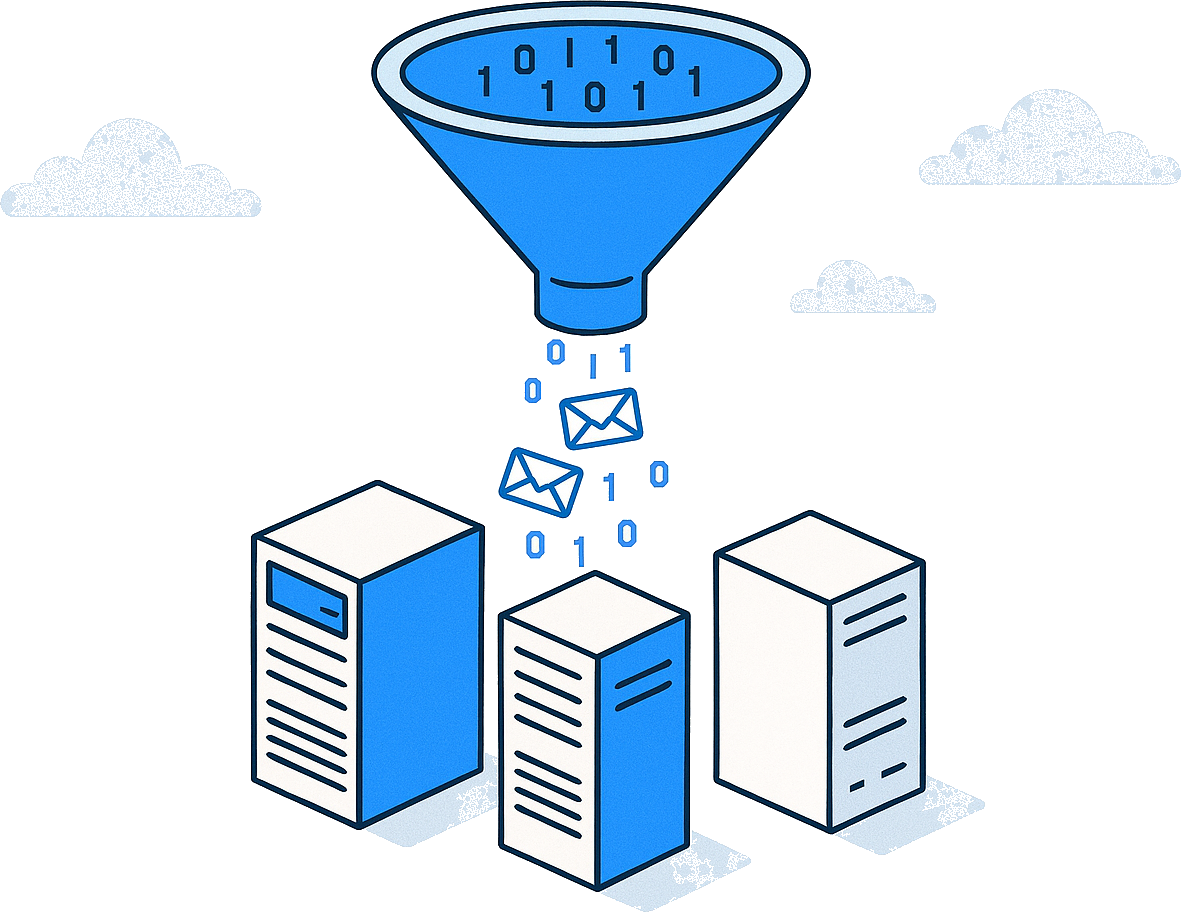
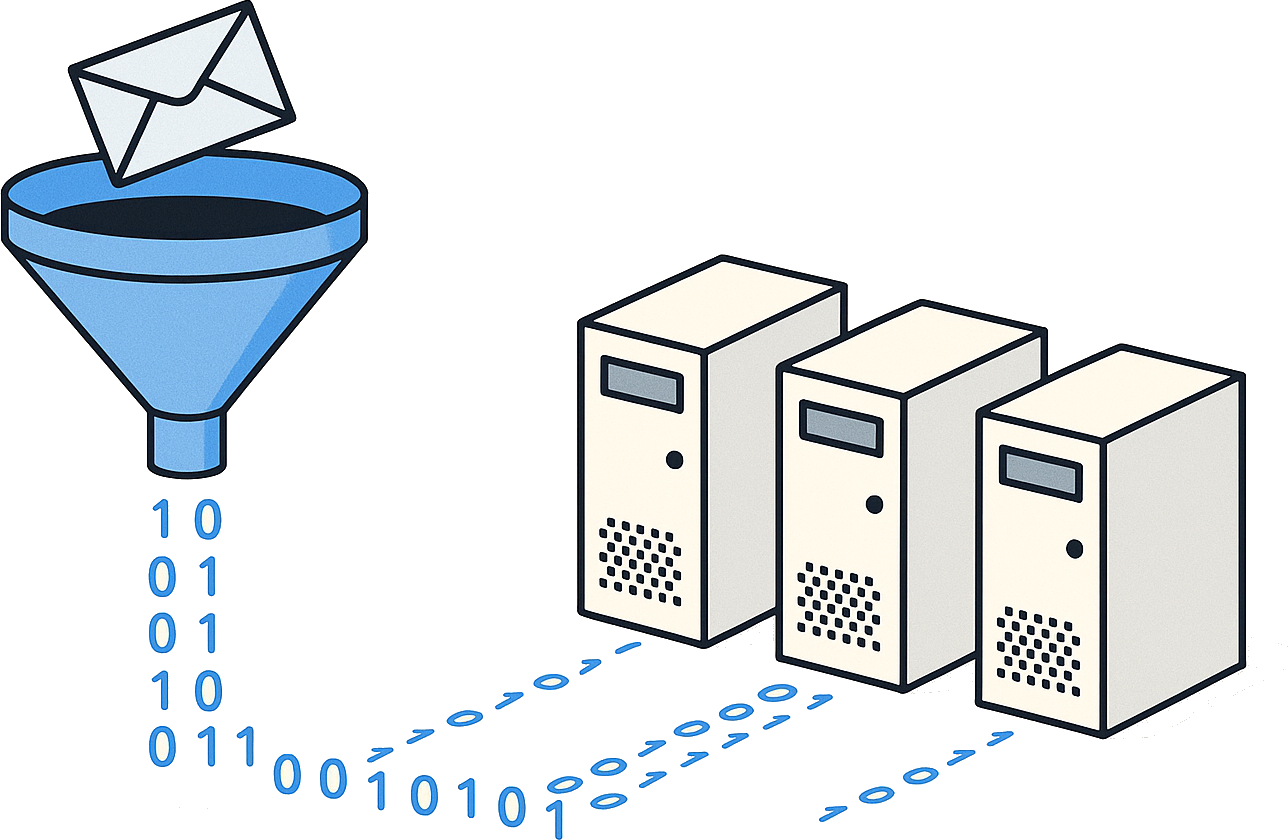
Iris names the trigger, and the corner is hers again
Every run_case now opens on the trigger — "a customer sends an email saying the
app crashes when they log in" — because that is the node the learner wired up.
Starting from the symptom described a situation with no visible connection to
the flow on their canvas.

run_pass said "All four of them!", a count with nothing attached, and the clip
outlived the celebration a learner can click straight past. It says what passed,
first: "All four test cases passed". The rule generalises — anything skippable
carries its meaning in the opening clause — so both went into the skill.

build_start named the next screen's job ("start connecting them") at the moment
the canvas opens. It now names what the learner has: you've got all your nodes,
now let's build your setup.

React Flow's zoom buttons moved to the bottom right, which is what let Iris go
back to the left corner she travels from — she had been pushed to x=96 to avoid
being drawn on top of.

Stress Testing reads as a title rather than an eyebrow, and the covers are 2:1
with simpler compositions: a node setup is a wide, shallow, left-to-right thing,
and a squarer slot was shrinking the art to fit.

10 clips re-rendered and synced to the bucket; all four covers redrawn.

diff --git a/packages/problems/email-triage/index.js b/packages/problems/email-triage/index.js
@@ -15,7 +15,7 @@ export const emailTriage = {
   estimatedMinutes: 25,
   coverImage: {
     prompt:
-      'A single retro pixel-art desktop computer stands on the ground with an envelope glowing on its screen. Above it float three separate cube-shaped sorting bins, and a stream of falling binary connects the computer up to them, one envelope shape riding the stream.',
+      'A single retro pixel-art computer on the left, and three simple cube trays on the right, with one envelope travelling between them on a short stream of binary. Wide, sparse, left to right.',
     src: '/covers/email-triage.png',
     alt: 'A retro computer streaming an email up into three sorting bins',
   },
@@ -774,7 +774,10 @@ export const emailTriage = {
 
     // The canvas has just opened and it is empty. This is the only line that gets to
     // frame the whole build, so it gives the ordering principle and nothing else.
-    build_start: ["[calm] Now that you've collected your nodes, let's start connecting them. Follow the order the email travels."],
+    // Spoken as the canvas opens, straight after the toolkit reveal. Names what the
+    // learner now HAS before naming what to do with it — the previous line went
+    // straight to "start connecting them", which is the next screen's job.
+    build_start: ["[calm] Right, you've got all your nodes. Now let's build your setup, in the order the email travels."],
 
     // ---- opening a build phase ----------------------------------------------
     // The phase title and its description are both on screen. These give the
@@ -858,11 +861,18 @@ export const emailTriage = {
     // Each describes the EMAIL and stops there. Where it comes out is the thing
     // worth watching, and on the last one it is also the Stress Testing question, so
     // announcing the destination would answer a question not yet asked.
-    'run_case:bug': ["[calm] Okay, here's the first. Their app crashes every time they log in. Watch what your classifier does."],
-    'run_case:feature': ["[calm] Right, next up. Nothing's broken this time, they just want something that doesn't exist yet."],
-    'run_case:urgent': ["[calm] Ah, this third one is angry. They've been charged twice and nobody's helping."],
-    'run_case:question': ["[calm] And the last one is just a question. No bug, no request, no complaint. But keep an eye on it."],
-    run_pass: ["[excited] All four of them! [pause] Every email went exactly where it should. That flow works."],
+    // Every run_case OPENS ON THE TRIGGER. "A customer sends an email saying the
+    // app crashes" ties the case to the node the learner actually wired up;
+    // starting from the symptom ("their app crashes") describes a situation with no
+    // visible connection to the trigger sitting on the canvas.
+    'run_case:bug': ["[calm] Okay, here's the first. A customer sends an email saying the app crashes when they log in."],
+    'run_case:feature': ["[calm] Right, next up. A customer emails asking for something that doesn't exist yet."],
+    'run_case:urgent': ["[calm] Ah, this third one. A customer emails, angry, charged twice and nobody's helping."],
+    'run_case:question': ["[calm] And the last one. A customer emails just to ask a question. Keep an eye on this one."],
+    // "All four of them!" opened on a number with nothing for it to count, and the
+    // clip ran on past the celebration it belongs to. Says what passed, in one
+    // breath, so nothing is left hanging when the screen moves on.
+    run_pass: ["[excited] All four test cases passed! [pause] Every email went exactly where it should."],
     run_fail: [
       "[calm] Hmm. Some didn't land where they should. That's useful to know, so let's follow one.",
       "[calm] Not all of them landed right. Follow one that missed and see where it turned.",

diff --git a/apps/web/src/lib/voiceLines.js b/apps/web/src/lib/voiceLines.js
@@ -164,7 +164,7 @@ export const LINES = {
   // ---- building -----------------------------------------------------------
   // The canvas and the phase label are both visible, so no line reads them out.
   build_start: [
-    "[calm] Now that you've collected your nodes, let's start connecting them up.",
+    "[calm] Right, you've got all your nodes. Now let's build your setup.",
   ],
   // Spoken when a build phase opens. `BuildStage` had been playing this since the
   // mascot mapping existed, but there were no words for it, so Iris animated and
@@ -275,8 +275,11 @@ export const LINES = {
   // is seeing where something lands, and narrating the destination in advance throws
   // that away. It would also hand over the Stress Testing answer on the case that
   // deliberately matches no rule.
-  run_case: ["[calm] Okay, here's the next one. Watch where it goes."],
-  run_pass: ["[excited] Every case came out right. That flow works.", "[excited] All of them passed. That's well built."],
+  // The generic version cannot know what arrived, so it points at the trigger
+  // without describing the case. An authored per-case line should name the trigger
+  // explicitly — "a customer sends an email saying…" — see the skill.
+  run_case: ["[calm] Okay, here's the next one arriving. Watch where it goes."],
+  run_pass: ["[excited] Every test case passed! That flow works.", "[excited] All your test cases passed. That's well built."],
   run_fail: ["[calm] Some didn't come out right. That's worth knowing. Let's look."],
 
   // ---- finishing ----------------------------------------------------------

diff --git a/apps/web/src/screens/HomeScreen.jsx b/apps/web/src/screens/HomeScreen.jsx
@@ -60,7 +60,9 @@ function Cover({ problem, Icon }) {
     // sliced by the border. Padding plus contain keeps the whole scene visible and
     // gives it room to breathe. The slot's background matches the art's own
     // off-white, so the inset reads as part of the picture rather than as a frame.
-    <div style={{ aspectRatio: '16 / 9', background: art?.src ? COVER_BG : 'var(--surface-soft-blue)', display: 'flex', alignItems: 'center', justifyContent: 'center', overflow: 'hidden', borderBottom: '1px solid var(--border-subtle)', padding: art?.src ? 18 : 0, boxSizing: 'border-box' }}>
+    // 2:1 rather than 16:9. A node setup is a wide, shallow left-to-right thing, so
+    // the art is too — a squarer slot forced the illustration to shrink to fit.
+    <div style={{ aspectRatio: '2 / 1', background: art?.src ? COVER_BG : 'var(--surface-soft-blue)', display: 'flex', alignItems: 'center', justifyContent: 'center', overflow: 'hidden', borderBottom: '1px solid var(--border-subtle)', padding: art?.src ? 16 : 0, boxSizing: 'border-box' }}>
       {art?.src ? (
         <img src={art.src} alt={art.alt || ''} style={{ maxWidth: '100%', maxHeight: '100%', objectFit: 'contain', display: 'block' }} />
       ) : (

diff --git a/apps/web/src/screens/EvalScreen.jsx b/apps/web/src/screens/EvalScreen.jsx
@@ -162,7 +162,10 @@ export function EvalScreen({ problem, sessionId, onDecision, onSubmit }) {
             on a laptop. Secondary colour, not brand blue: this is a label, and blue is
             the colour of things you click. */}
         <div style={{ width: '100%', maxWidth: COLUMN_WIDTH, textAlign: 'center', marginBottom: 22, paddingBottom: 18, borderBottom: '1px solid var(--border-subtle)' }}>
-          <div style={{ fontSize: 11, textTransform: 'uppercase', letterSpacing: '0.08em', color: 'var(--fg-2)', fontWeight: 700 }}>
+          {/* A medium title, not an eyebrow: it names the section a learner has just
+              arrived at, so it should read at title weight. Secondary colour keeps it
+              from competing with the question, which is the thing to actually read. */}
+          <div style={{ fontFamily: 'var(--font-headline)', fontSize: 20, fontWeight: 600, color: 'var(--fg-2)' }}>
             Stress Testing
           </div>
         </div>

diff --git a/apps/web/src/screens/BuildStage.jsx b/apps/web/src/screens/BuildStage.jsx
@@ -201,9 +201,9 @@ export function BuildStage({ problem, onDecision, onComplete, devAutoRun, sessio
   const parkCorner = useCallback(() => {
     const b = box();
     setMascotClip('idle'); setMascotVisible(true);
-    // x=96, not 24: React Flow's zoom controls own the bottom-left corner, and at
-    // 24 Iris sat directly under the + / − buttons — which draw on top of her.
-    moveTo(96, b.height - 96, 68);
+    // Hard into the left corner. She was pushed to x=96 to clear React Flow's zoom
+    // buttons; those now live bottom-right (see N8nEditor), so the corner is hers.
+    moveTo(20, b.height - 96, 68);
   }, [moveTo]);
   const rectOf = (nodeId) => {
     const c = canvasRef.current;

diff --git a/packages/problems/meeting-notes/index.js b/packages/problems/meeting-notes/index.js
@@ -22,7 +22,7 @@ export const meetingNotes = {
   estimatedMinutes: 15,
   coverImage: {
     prompt:
-      'A long ragged paper scroll unrolls out of a retro pixel-art computer on the left and feeds upward through a stream of falling binary into a single floating cube, which sits above a neat isometric document with three short bullet lines on it.',
+      'A ragged paper scroll on the left, a short stream of binary, and one neat document with three bullet lines on the right. Wide, sparse, left to right. Nothing else.',
     src: '/covers/meeting-notes.png',
     alt: 'A transcript scroll feeding into a cube and out as tidy notes',
   },

diff --git a/packages/problems/order-desk/index.js b/packages/problems/order-desk/index.js
@@ -35,7 +35,7 @@ export const orderDesk = {
   estimatedMinutes: 45,
   coverImage: {
     prompt:
-      'An isometric conveyor belt carries small cube parcels into a tall pixel-art sorting machine that fans out into many narrow chutes, with streams of falling binary pouring down between the chutes and two glowing cubes floating overhead.',
+      'A short conveyor of cube parcels on the left feeding one simple sorting box in the middle, which fans out into a few chutes on the right. Wide, sparse, left to right.',
     src: '/covers/order-desk.png',
     alt: 'Parcels on a conveyor entering a sorter that fans out many ways',
   },

diff --git a/packages/problems/lead-triage/index.js b/packages/problems/lead-triage/index.js
@@ -11,7 +11,7 @@ export const leadTriage = {
   estimatedMinutes: 20,
   coverImage: {
     prompt:
-      'A wide isometric funnel floats in the air, fed by streams of falling binary, and drops small glowing envelope shapes into three separate retro pixel-art server towers standing below it, each tower lit a different brightness.',
+      'A simple funnel on the left dropping one envelope into three plain server towers on the right, connected by a short stream of binary. Wide, sparse, left to right.',
     src: '/covers/lead-triage.png',
     alt: 'A funnel dropping leads into three server towers',
   },

diff --git a/apps/web/src/n8n/N8nEditor.jsx b/apps/web/src/n8n/N8nEditor.jsx
@@ -290,7 +290,9 @@ const EditorInner = forwardRef(function EditorInner({ pickable, onGraphChange, n
           fitView
         >
           <Background variant={BackgroundVariant.Dots} gap={18} size={1.5} color="#C4CAD4" />
-          <Controls showInteractive={false} />
+          {/* Bottom RIGHT, so the bottom-left corner belongs to Iris. She parks
+              there and travels from there; the zoom buttons drew on top of her. */}
+          <Controls showInteractive={false} position="bottom-right" />
         </ReactFlow>
 
         {nodes.length === 0 ? (

diff --git a/.claude/skills/iris-voice/SKILL.md b/.claude/skills/iris-voice/SKILL.md
@@ -217,6 +217,26 @@ a person and a screen reader. What must never happen is naming the answer to a q
 still open. `run_case` on the case that matches no rule must point at it
 (*"keep an eye on this one"*) and stop — the destination is the Stress Testing answer.
 
+### `run_case` opens on the trigger, every time
+
+Name the thing the learner wired up. "**A customer sends an email saying** the app
+crashes when they log in" ties the case to the trigger node sitting on their canvas;
+"Their app crashes every time they log in" describes a situation with no visible
+connection to the flow they built. The trigger is the whole point of the sentence —
+it is why this case is entering *their* graph rather than being a story about a
+customer. Applies to whatever the trigger is: a webhook problem says "a transcript
+arrives", not "the call ended".
+
+Still no destination — see *Never reveal an answer the learner has not given*.
+
+### Say what a number counts
+
+`run_pass` was "All four of them!" — a count with nothing attached, and if the
+learner clicked through the celebration the clip was cut before the sentence that
+would have explained it. Put the noun on the number ("All four **test cases**
+passed") and put it **first**, so a line that gets cut still lands. Anything a
+learner can click past should carry its meaning in the opening clause.
+
 ### Do not read the screen
 
 The phase label, the statement and the explanation are all visible. Iris says the thing
